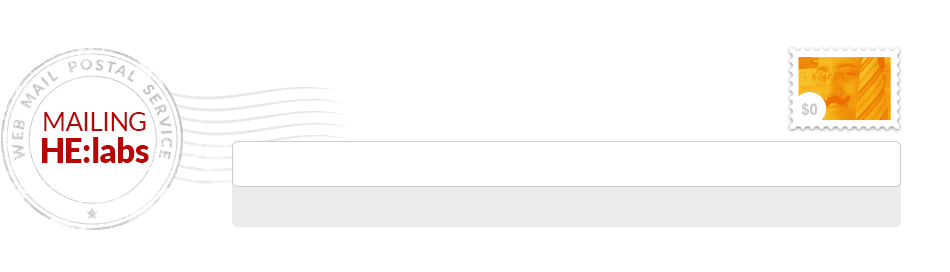
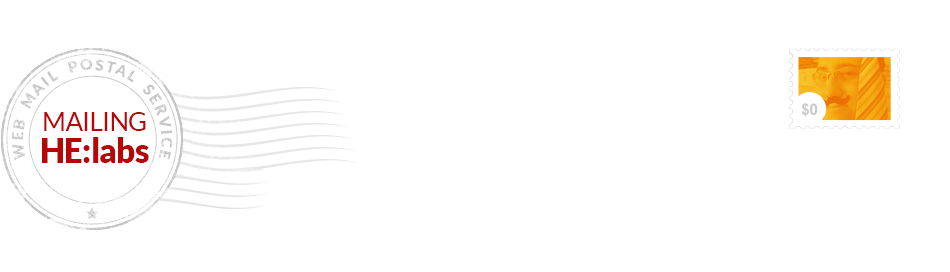
changed input form background image to css style background

diff --git a/stylesheets/he-core.css b/stylesheets/he-core.css
@@ -4670,6 +4670,7 @@ div.zombie-anezio {
 
 #mailing-page{
   padding-bottom:50px;
+  padding-top: 3.8em;
 }
 
 #mailing-page h3{
@@ -4736,30 +4737,36 @@ div.zombie-anezio {
   margin: 11px 60px 0 0;
 }
 
-.cover-mailing-page div.containner{
-  height:275px;
-  background-image: url(/images/mailing-page-containner-bg.png);
-  background-position: center;
-  background-repeat: no-repeat;
+.cover-mailing-page div.containner {
+    background-image: url("/images/mailing-page-containner-bg.png");
+    background-position: left center;
+    background-repeat: no-repeat;
+    height: 275px;
+    width: 100%;
 }
 
 .cover-mailing-page div.containner input[type="text"], 
-.cover-mailing-page div.containner input[type="email"]{
-  margin:0px 0 0 10px;
-  width:531px;
-  border:none;
-  font-size:14px;
+.cover-mailing-page div.containner input[type="email"] {
+    background: none repeat scroll 0 0 white;
+    border: 1px solid #C7C7C7;
+    border-radius: 6px 6px 6px 6px;
+    float: left;
+    font-size: 14px;
+    margin: 0;
+    padding: 0.7em;
+    width: 70%;
 }
 
-.cover-mailing-page div.containner input[type="submit"]{
-  background-color:#b80606;
-  padding:8px;
-  border:0px;
-  border-radius:6px;
-  color:#fff;
-  font-size:12px;
-  text-transform:uppercase;
-  font-weight:700;
+.cover-mailing-page div.containner input[type="submit"] {
+    background-color: #B80606;
+    border: 0 none;
+    border-radius: 6px 6px 6px 6px;
+    color: #FFFFFF;
+    font-size: 12px;
+    font-weight: 700;
+    margin: 0.2em 0.2em 0.2em 0.3em;
+    padding: 8px;
+    text-transform: uppercase;
 }
 
 .cover-mailing-page div.containner input[type="submit"]:hover{

diff --git a/mailing.html b/mailing.html
@@ -8,7 +8,7 @@ description: HE:labs é uma empresa pioneira em desenvolvimento de sistemas web,
     <div class="containner">
       <div class="mailing-form">
       <h2>Novidades relevantes e ofertas exclusivas do mundo do software!</h2>
-      <form action="http://clientela.us2.list-manage.com/subscribe/post?u=78c4c9df5db794cd68f358456&amp;id=020e7504d2" method="post" id="mc-embedded-subscribe-form" name="mc-embedded-subscribe-form" class="validate" target="_blank" novalidate>
+      <form style="width:100%" action="http://clientela.us2.list-manage.com/subscribe/post?u=78c4c9df5db794cd68f358456&amp;id=020e7504d2" method="post" id="mc-embedded-subscribe-form" name="mc-embedded-subscribe-form" class="validate" target="_blank" novalidate>
 
         <input type="email" name="EMAIL" class="email" id="mce-EMAIL" placeholder="Insira seu email e faça parte da comunidade" required />
 
